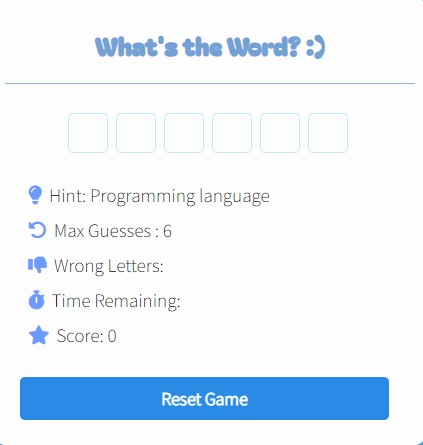
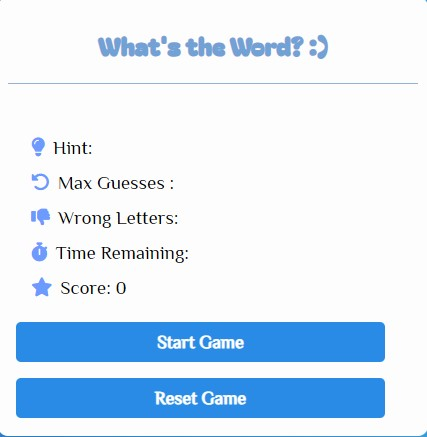
Add start game feature

diff --git a/assets/css/style.css b/assets/css/style.css
@@ -108,7 +108,8 @@ i {
 
 .start-btn.disabled {
   background-color: #deefff;
-  cursor: not-allowed;
+  opacity: 0.65;
+  cursor: default;
 }
 
 .start-btn.disabled:hover {

diff --git a/README.md b/README.md
@@ -16,10 +16,17 @@ There are many feature available in this app that can help the player to guess f
 - **Hint:** The Hint option provides a clue to guess accodingly. 
 - **Remaining Guess:** The Remaining Guess show the chance of making wrong guess. 
 - **Worng letter:** Worng letter option which assist player to avoid wrong guess.
-- **Reset Button:** The Reset button , it restart the game.
+- **Reset Game Button:** The Reset button , it restart the game.
+- **Start Game Button:** The "Start Game" button feature offers users the ability to initiate the word guessing game at their discretion. Upon clicking the button, the game timer begins counting down from the specified duration, and the game's hint becomes visible. Additionally, the button becomes visually disabled, signaling to users that the game has commenced and preventing repeated clicks until the current round concludes. This intuitive feature enhances user engagement and control over the game experience.
 - **Player Score:** The player score feature enhances the game by awarding points for correct word guesses. It introduces an element of competitiveness and skill, encouraging players to aim for higher scores. It will reset when user reset the game.
-- **Timer:** The game timing feature introduces a 60-second countdown to each word guess, enhancing excitement and challenge. Players must think quickly, adding an element of urgency and fostering focused decision-making. This dynamic gameplay creates engaging rounds with immediate feedback on remaining time, while also promoting adaptive strategies and streamlined play.
+- **Timer:** The game timing feature introduces a 30-second countdown to each word guess, enhancing excitement and challenge. Players must think quickly, adding an element of urgency and fostering focused decision-making. This dynamic gameplay creates engaging rounds with immediate feedback on remaining time, while also promoting adaptive strategies and streamlined play.
 - **Answer:** Another features is that when the game is over the answer will appear on alert message.
+
+![Feature](assets/readMeImage/feature.jpg)
+
+
+![Feature](assets/readMeImage/startGame.jpg)
+
 
 **_Timer in different Cases:_**
 
@@ -31,7 +38,7 @@ There are many feature available in this app that can help the player to guess f
 
 ![Timer - Max Guesses](assets/readMeImage/timer.jpg)
 
-3. When uer run out of 60 sec,
+3. When uer run out of 30 sec,
 
 ![Timer - Max Guesses](assets/readMeImage/timer.jpg)
 
@@ -39,7 +46,7 @@ There are many feature available in this app that can help the player to guess f
 
 **Note:** If the user types a wrong letter several times, this repetition does not reduce the number of "Max Guess" that the user has.  And the worng typed letter is shown only once in the list of wrong letters list..
 
-   ![Feature](assets/readMeImage/feature.jpg)
+   
 
 
 ### _Features Left to Imlement_
@@ -85,7 +92,8 @@ When I was testing the timer, I noticed that when user go to another tab from th
 ### _HTML_
 - No errors were returned when passing through the official W3C validator.
 
-<!--html validator report   -->
+![CSS Code Validator](assets/readMeImage/html.jpg)
+
 
 ### _CSS_
 - No errors were found when passing through the official (Jigsaw) validator.
@@ -102,6 +110,7 @@ The page achieved great performance.
 
 ![Lighthouse Report](assets/readMeImage/reportLighthouse.jpg)
 
+Note: I added a semantic structure in the code using LMS, but when I was validating the html code, it got an error in section tags and suggested to use div tag instead of section.
 
 
 ## Libraries & Programs 
@@ -129,6 +138,7 @@ For JavaScript issues I encountered these sites have been used for reference:
 
 - For general information [W3 Schools](https://www.w3schools.com/) and [Developer Mozilla](https://developer.mozilla.org/)
 - I used [CodeNepal](https://www.codingnepalweb.com/) site as main guide and followed CodeNepal YouTube step by step.
+- I used this sit to add disabled stayle for start btn disable mode [Smart Devpreneur](https://smartdevpreneur.com/easily-disable-a-button-with-javascript-or-css-3-examples/)
 - For Media Query I used [W3 Schools](https://www.w3schools.com/)
 
 ## Media 
